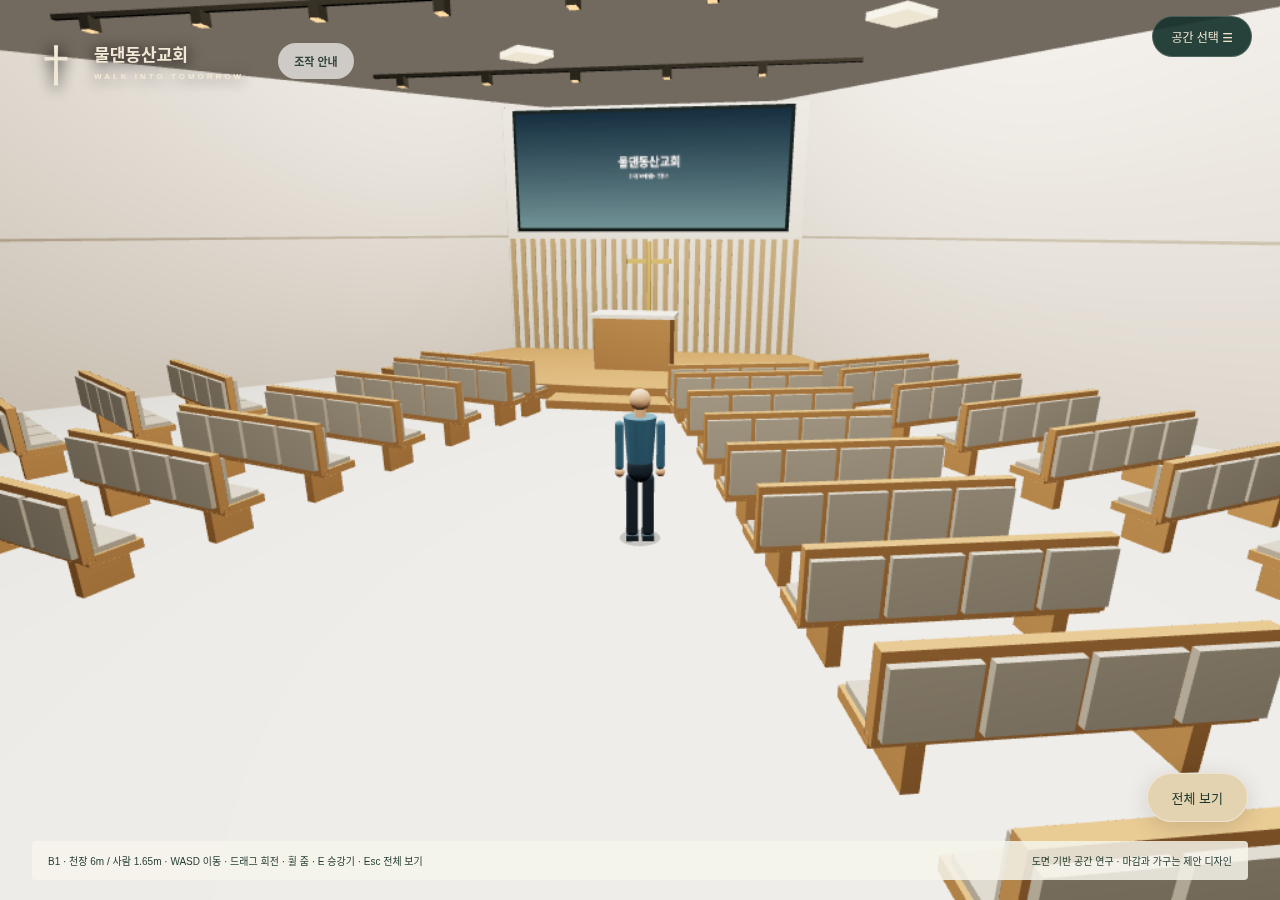
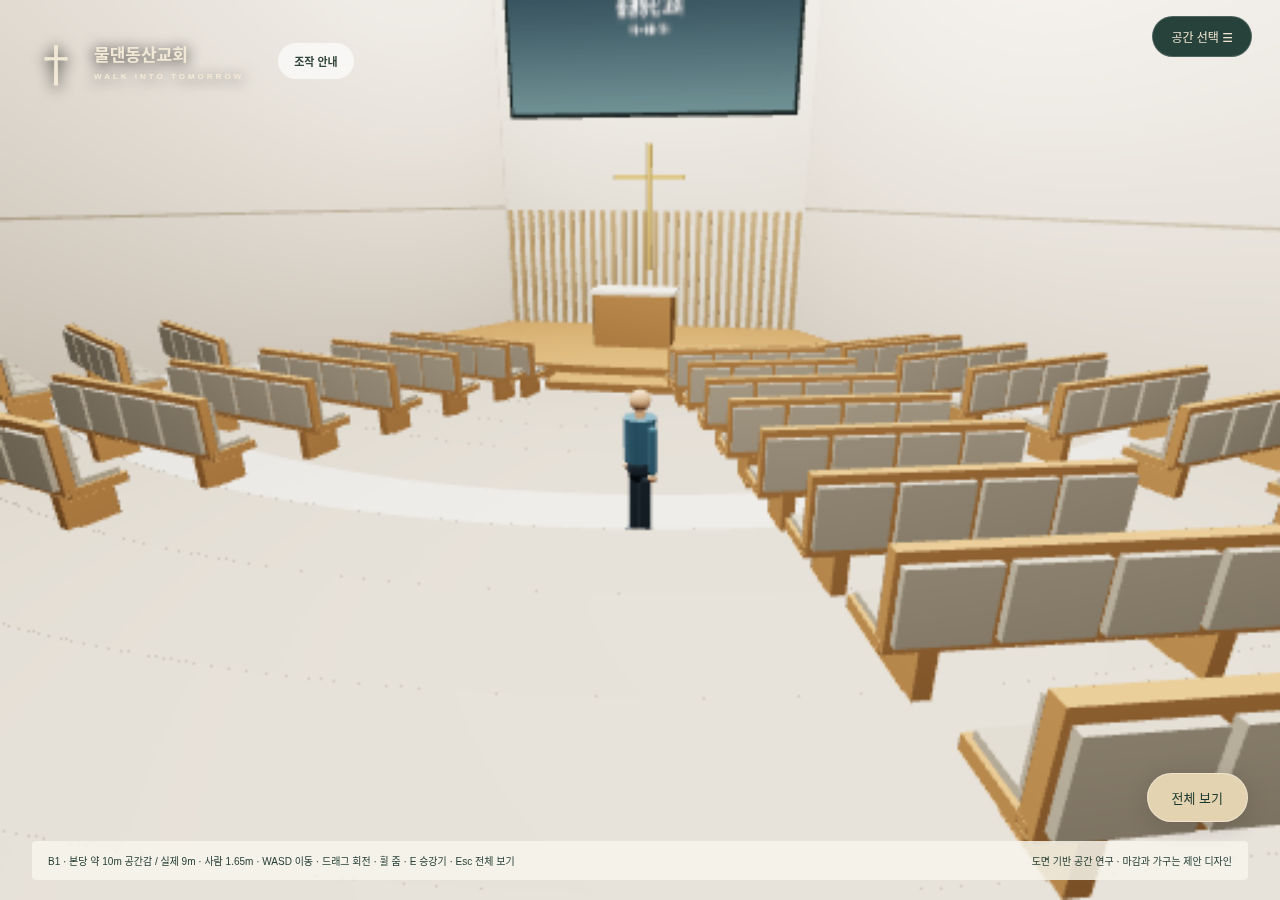
Refine sanctuary tiers and unify dining hall

diff --git a/src/building-world.js b/src/building-world.js
@@ -14,7 +14,7 @@ export class BuildingWorld {
     this.repairs=[];this.ray=new T.Raycaster();this.ray.layers.enableAll();this.meshes=[];this.walkables=[];this.solids=[];this.doors=[];
     this.original=new Map();this.root.traverse(o=>{if(o.isMesh)this.original.set(sourceName(o),o)});
     this.trim=new T.MeshStandardMaterial({color:0xd6d0c2,roughness:.7});
-    this.fixStructure();this.fitSanctuary();this.expandSanctuary();this.buildRearRooms();this.buildLift();this.index();this.batchVisuals();
+    this.fixStructure();this.fitSanctuary();this.expandSanctuary();this.buildRearRooms();this.openDiningHall();this.buildLift();this.index();this.batchVisuals();
   }
   box(name,x,y,z,w,h,d,material=this.trim,parent=this.root){
     const o=new T.Mesh(new T.BoxGeometry(w,h,d),material);o.name=name;o.position.set(x,y,z);o.receiveShadow=true;parent.add(o);return o;
@@ -73,28 +73,27 @@ export class BuildingWorld {
     // The existing 1F reception blocks the landing exit; keep it, using the north corridor around it.
   }
   fitSanctuary(){
-    const floor=-9.4,ceiling=floor+6;
-    this.sanctuary={floor,ceiling,height:6,personHeight:1.65,screenWidth:4.4,screenHeight:2.475};
-    // A suspended finish ceiling preserves the B1/1F levels and the open circulation cores.
+    const floor=-9.4,ceiling=-.4;
+    this.sanctuary={floor,ceiling,height:9,visualHeight:'약 10m',personHeight:1.65,screenWidth:4.4,screenHeight:3.49};
+    // Use the full structural clearance below 1F. This is 9m, the closest honest
+    // fit to the requested ~10m while preserving the fixed B1/1F elevations.
     const finish=this.root.getObjectByName('B1_Ceiling_core_openings');
-    finish.geometry.translate(0,-3,0);
     finish.material=new T.MeshStandardMaterial({color:0xe5dfd3,roughness:.95,emissive:0xe5dfd3,emissiveIntensity:.22});
-    for(const [name,o]of this.original)if(name.startsWith('B1_CeilingLamp_'))o.position.y-=3;
     const backdrop=this.original.get('B1_Stage_Backdrop');
-    backdrop.geometry.computeBoundingBox();backdrop.scale.y=5.55/(backdrop.geometry.boundingBox.max.y-backdrop.geometry.boundingBox.min.y);backdrop.position.y=floor+.3+5.55/2;
+    backdrop.geometry.computeBoundingBox();backdrop.scale.y=8.55/(backdrop.geometry.boundingBox.max.y-backdrop.geometry.boundingBox.min.y);backdrop.position.y=floor+.3+8.55/2;
     const vertical=this.original.get('B1_Cross_Vertical'),horizontal=this.original.get('B1_Cross_Horizontal');
-    vertical.geometry.computeBoundingBox();vertical.scale.y=1.8/(vertical.geometry.boundingBox.max.y-vertical.geometry.boundingBox.min.y);vertical.position.y=floor+2;
-    horizontal.scale.x=1.05/.8;horizontal.position.y=floor+2.45;
+    vertical.geometry.computeBoundingBox();vertical.scale.y=2.75/(vertical.geometry.boundingBox.max.y-vertical.geometry.boundingBox.min.y);vertical.position.y=floor+3;
+    horizontal.scale.x=1.6/.8;horizontal.position.y=floor+3.68;
     const frame=new T.MeshStandardMaterial({color:0x202a2b,roughness:.7});
     const screenMaterial=new T.MeshBasicMaterial({color:0xffffff,toneMapped:false});
-    this.screen=this.box('B1_Projection_Screen',-10.28,floor+3.2+2.475/2,-8.18,4.4,2.475,.045,screenMaterial);
+    this.screen=this.box('B1_Projection_Screen',-10.28,floor+5+3.49/2,-8.18,6.2,3.49,.045,screenMaterial);
     this.screen.quaternion.copy(backdrop.quaternion);
-    const border=this.box('B1_Screen_Frame',-10.32,this.screen.position.y,-8.22,4.56,2.635,.06,frame);border.quaternion.copy(backdrop.quaternion);
+    const border=this.box('B1_Screen_Frame',-10.32,this.screen.position.y,-8.22,6.36,3.65,.06,frame);border.quaternion.copy(backdrop.quaternion);
     // Fine wall bands make the room height readable without changing its footprint.
     const band=new T.MeshStandardMaterial({color:0xaaa08e,roughness:.9});
     this.box('B1_Height_Band_N',0,floor+3,-10.98,26.2,.045,.025,band);
     this.box('B1_Height_Band_W',-13.08,floor+3,0,.025,.045,22,band);
-    this.repairs.push('B1 finished ceiling 6m; cross below 4.4 × 2.475m screen; 1.65m adult reference');
+    this.repairs.push('B1 full structural ceiling 9m (visual target ~10m); cross below 6.2 × 3.49m screen; 1.65m adult reference');
   }
   expandSanctuary(){
     const floor=-9.4,wood=this.original.get('B1_StageFan').material;
@@ -107,17 +106,48 @@ export class BuildingWorld {
     const step=this.box('B1_Stage_Approach_Step',-7.18,floor+.075,-5.08,2.4,.15,.7,wood);step.rotation.y=Math.PI/4;
     for(const n of ['B1_Pulpit','B1_PulpitTop']){const o=this.original.get(n);o.scale.x*=1.8;o.scale.z*=1.35}
     this.original.get('B1_Stage_Backdrop').scale.x*=1.4;
-    this.screen.scale.x=6.2/4.4;this.root.getObjectByName('B1_Screen_Frame').scale.x=6.36/4.56;this.sanctuary.screenWidth=6.2;
+    this.sanctuary.screenWidth=6.2;
     const fabric=new T.MeshStandardMaterial({color:0xaaa394,roughness:.95});
     for(const [n,o]of this.original){if(/^B1_Pew_\d+_(Seat|Back)$/.test(n))o.material=fabric;
       if(/^B1_Pew_0[012]_/.test(n)){const dx=o.position.x+12.8,dz=o.position.z+10.7,l=Math.hypot(dx,dz);o.position.x+=dx/l*.6;o.position.z+=dz/l*.6}
     }
     const added=new Map();
-    const rows=[[25,21,.315,1.26],[26,22,.65,1.126],[27,23,1.126,.65],[28,24,1.26,.315],[29,26,.65,1.126],[30,27,1.126,.65],[31,28,1.26,.315],[32,31,1.26,.315],[33,30,1.126,.65],[34,32,1.26,.315]];
+    const rows=[[25,21,.315,1.26],[26,22,.65,1.126],[27,23,1.126,.65],[28,24,1.26,.315],[29,26,.65,1.126],[30,27,1.126,.65],[31,28,1.26,.315],[32,31,1.26,.315],[33,30,1.126,.65],[34,32,1.26,.315],
+      [38,30,1.126,.65],[39,31,1.26,.315]];
     for(const[id,source,dx,dz]of rows){const prefix='B1_Pew_'+String(source).padStart(2,'0')+'_',next='B1_Pew_'+id+'_';
       const originals=source<25?[...this.original].filter(([n])=>n.startsWith(prefix)).map(([,o])=>o):added.get(source);
       const copies=originals.map(o=>{const c=o.clone();c.name=(o.userData.name||o.name).replace(prefix,next);c.userData={name:c.name};c.position.x+=dx;c.position.z+=dz;this.root.add(c);return c});added.set(id,copies);
     }
+    // One concentric tier per seating row: 12cm steps descend toward the stage.
+    this.root.updateMatrixWorld(true);
+    const pewMeshes=[];this.root.traverse(o=>{if(o.isMesh&&/^B1_Pew_\d+_/.test(sourceName(o)))pewMeshes.push(o)});
+    const center=new T.Vector2(-10.5,-8.4),tiers=new Map();
+    for(const o of pewMeshes){const seatName=sourceName(o).match(/^(B1_Pew_\d+)_/)[1];if(!tiers.has(seatName))tiers.set(seatName,Math.max(0,Math.min(11,Math.floor((Math.hypot(o.position.x-center.x,o.position.z-center.y)-5.2)/1.3))))}
+    const tierMaterial=new T.MeshStandardMaterial({color:0xb8afa0,roughness:1,side:T.DoubleSide});
+    // Build clipped quarter-ring terraces instead of full rings. The clipping
+    // keeps the raised seating floor out of the rear rooms and lift corridor;
+    // the inner vertical quads make every 12cm descent visible as a real step.
+    for(let i=0;i<=11;i++){
+      const inner=5.2+i*1.3,outer=inner+1.3,y=floor+i*.12+.02,positions=[];
+      for(let s=0;s<64;s++){
+        const a=s/64*Math.PI/2,b=(s+1)/64*Math.PI/2,m=(a+b)/2;
+        const mx=center.x+Math.sin(m)*(inner+outer)/2,mz=center.y+Math.cos(m)*(inner+outer)/2;
+        if(mx>8||mz>6.4||(mx>5.8&&mz>.85&&mz<2.35)||(mx>4.3&&mx<7.8&&mz>2.5&&mz<6.5))continue;
+        const p=(r,t,h)=>[center.x+Math.sin(t)*r,h,center.y+Math.cos(t)*r];
+        const ia=p(inner,a,y),ib=p(inner,b,y),oa=p(outer,a,y),ob=p(outer,b,y);
+        positions.push(...ia,...oa,...ob,...ia,...ob,...ib);
+        if(i>0){const low=y-.12;positions.push(...p(inner,a,low),...ia,...ib,...p(inner,a,low),...ib,...p(inner,b,low))}
+      }
+      const g=new T.BufferGeometry();g.setAttribute('position',new T.Float32BufferAttribute(positions,3));g.computeVertexNormals();
+      const tier=new T.Mesh(g,tierMaterial);tier.name='B1_Seating_Tier_'+i;this.root.add(tier);
+    }
+    // The east aisle connects the highest rear terrace back to the B1 floor in
+    // 12cm increments, so the seating rake never creates a cliff on the lift route.
+    for(let i=0;i<11;i++){
+      const h=(11-i)*.12;
+      this.box('B1_Seating_Tier_AisleStep_'+i,5.61+(i+.5)*.22,floor+h/2,1.6,.225,h,1.3,tierMaterial);
+    }
+    for(const o of pewMeshes)o.position.y+=tiers.get(sourceName(o).match(/^(B1_Pew_\d+)_/)[1])*.12;
     // Four separate cushions per bench echo the reference seating without losing the existing pew frames.
     this.root.updateMatrixWorld(true);const seatParts=[];this.root.traverse(o=>{if(o.isMesh&&/^B1_Pew_\d+_(Seat|Back)$/.test(sourceName(o)))seatParts.push(o)});
     for(const o of seatParts){const name=sourceName(o),isSeat=name.endsWith('_Seat');o.material=wood;
@@ -128,12 +158,12 @@ export class BuildingWorld {
     for(let i=0;i<28;i++)this.box('B1_Acoustic_Slat_'+i,-3.375+i*.25,1.325,.12,.12,2.65,.035,timber,backdropTrim);
     const trackMaterial=new T.MeshStandardMaterial({color:0x33312b,roughness:.8}),lampMaterial=new T.MeshBasicMaterial({color:0xffdca3,toneMapped:false});
     for(const [row,v,width]of [[0,5,8],[1,9,12],[2,13,12]]){
-      const track=new T.Group();track.position.set(-10.5+v/Math.SQRT2,floor+5.65,-8.4+v/Math.SQRT2);track.rotation.y=Math.PI/4;this.root.add(track);
+      const track=new T.Group();track.position.set(-10.5+v/Math.SQRT2,floor+8.65,-8.4+v/Math.SQRT2);track.rotation.y=Math.PI/4;this.root.add(track);
       this.box('B1_Lighting_Track_'+row,0,0,0,width,.055,.06,trackMaterial,track);
       for(let u=-width/2+.5;u<width/2;u+=1.5){this.box('B1_Light_Housing',u,-.09,0,.13,.15,.17,trackMaterial,track);this.box('B1_Light_Diffuser',u,-.17,.015,.11,.018,.14,lampMaterial,track)}
     }
-    this.sanctuary.pewCount=35;this.sanctuary.stageWidth=10.8;this.sanctuary.stageDepth=4.4;
-    this.repairs.push('Expanded curved stage 10.8m × 4.4m; wider pulpit; 35 upholstered pews with aisle access');
+    this.sanctuary.pewCount=37;this.sanctuary.stageWidth=10.8;this.sanctuary.stageDepth=4.4;this.sanctuary.frontAisleClearance=.9;this.sanctuary.tierRise=.12;this.sanctuary.tierCount=12;
+    this.repairs.push('Expanded curved stage 10.8m × 4.4m; 37 upholstered pews on 12 descending 12cm terraces; 0.9m minimum front circulation band');
   }
   buildRearRooms(){
     const floor=-9.4,front=7.4,back=10.98,height=3;
@@ -179,6 +209,15 @@ export class BuildingWorld {
     this.box('B1_Engineer_Equipment_Rack',-3.5,floor+.85,10.25,.65,1.7,.65,dark);
     this.repairs.push('Rear fragments replaced by separate Mother and Engineer rooms with continuous walls, ceilings, viewing windows and 1.2m open doorways');
   }
+  openDiningHall(){
+    // The full-width setback glass at z=-2.8 crossed the middle of the 3F dining
+    // furniture. Remove that internal barrier and the fourth furniture column,
+    // leaving three clear table rows in one continuous hall.
+    this.original.get('Upper_Setback_Glass')?.removeFromParent();
+    for(const [name,o] of this.original)if(/^03_Dining_3_/.test(name))o.removeFromParent();
+    this.diningHall={floor:9.6,tableRows:3,barrierRemoved:'Upper_Setback_Glass',bounds:{x1:-4.2,x2:4.2,z1:-8.3,z2:.1}};
+    this.repairs.push('3F dining hall unified: central setback glass removed and tables arranged as three rows in one room');
+  }
   buildLift(){
     const steel=new T.MeshStandardMaterial({color:0x7b898c,metalness:.5,roughness:.35});
     const group=new T.Group();group.name='Elevator_car';this.root.add(group);
@@ -205,9 +244,9 @@ export class BuildingWorld {
     this.root.traverse(o=>{if(!o.isMesh)return;o.geometry.computeBoundingBox();o.geometry.computeBoundingSphere();
       o.userData.worldBounds=new T.Box3().setFromObject(o);this.meshes.push(o);
       const name=sourceName(o),landingDoor=name.startsWith('Lift_landing_door_');
-      if(!landingDoor&&/SLAB|Floor$|floor|Sidewalk|Road|Flight|STAIR_[AB]_|Landing|GroundLanding|Stage|Podium/i.test(name))this.walkables.push(o);
+      if(!landingDoor&&/SLAB|Floor$|floor|Sidewalk|Road|Flight|STAIR_[AB]_|Landing|GroundLanding|Stage|Podium|Seating_Tier/i.test(name))this.walkables.push(o);
       // Stair risers are handled by step-up support, not horizontal wall collision.
-      if(landingDoor||!/Flight|STAIR_[AB]_|Landing|CoreMarker|ParkingStripe|JOINT_|FRAME_|FIN_|RailPost|CeilingLamp|Light|Sign|Text/i.test(name))this.solids.push(o);
+      if(landingDoor||!/Flight|STAIR_[AB]_|Landing|Seating_Tier|CoreMarker|ParkingStripe|JOINT_|FRAME_|FIN_|RailPost|CeilingLamp|Light|Sign|Text/i.test(name))this.solids.push(o);
     });
   }
   batchVisuals(){

diff --git a/src/app.js b/src/app.js
@@ -81,7 +81,7 @@ function liftUI(){
  const p=thirdPerson.position,l=world.lift;liftPanel.hidden=!walking||!world.nearLift(p)&&!l.passenger;
  const inside=world.insideCar(p);document.querySelectorAll('[data-lift]').forEach(b=>b.disabled=!inside||['moving','closing'].includes(l.phase));
  const floor=world.nearestFloor(p.y);if(walking){space=floor.id;document.querySelectorAll('[data-space]').forEach(b=>b.classList.toggle('active',b.dataset.space===space))}document.querySelector('#lift-status').textContent=l.phase==='moving'?'승강기 이동 중':inside?'도착 층을 선택하세요':floor.label+' · 승강기';
- if(walking){document.querySelector('#mode').textContent=floor.label+(floor.id==='sanctuary'?' · 천장 6m / 사람 1.65m':'')+' · WASD 이동 · 드래그 회전 · 휠 줌 · E 승강기 · Esc 전체 보기'}
+ if(walking){document.querySelector('#mode').textContent=floor.label+(floor.id==='sanctuary'?' · 본당 약 10m 공간감 / 실제 9m · 사람 1.65m':'')+' · WASD 이동 · 드래그 회전 · 휠 줌 · E 승강기 · Esc 전체 보기'}
 }
 function tick(dt,refreshView=true){
  if(walking&&!dialog.open){world.update(dt,thirdPerson.position);thirdPerson.update(dt,keys,allowed,floorHeight,world.root,(p,dx,dz,dt)=>world.move(p,dx,dz,dt),refreshView);if(refreshView)liftUI()}
